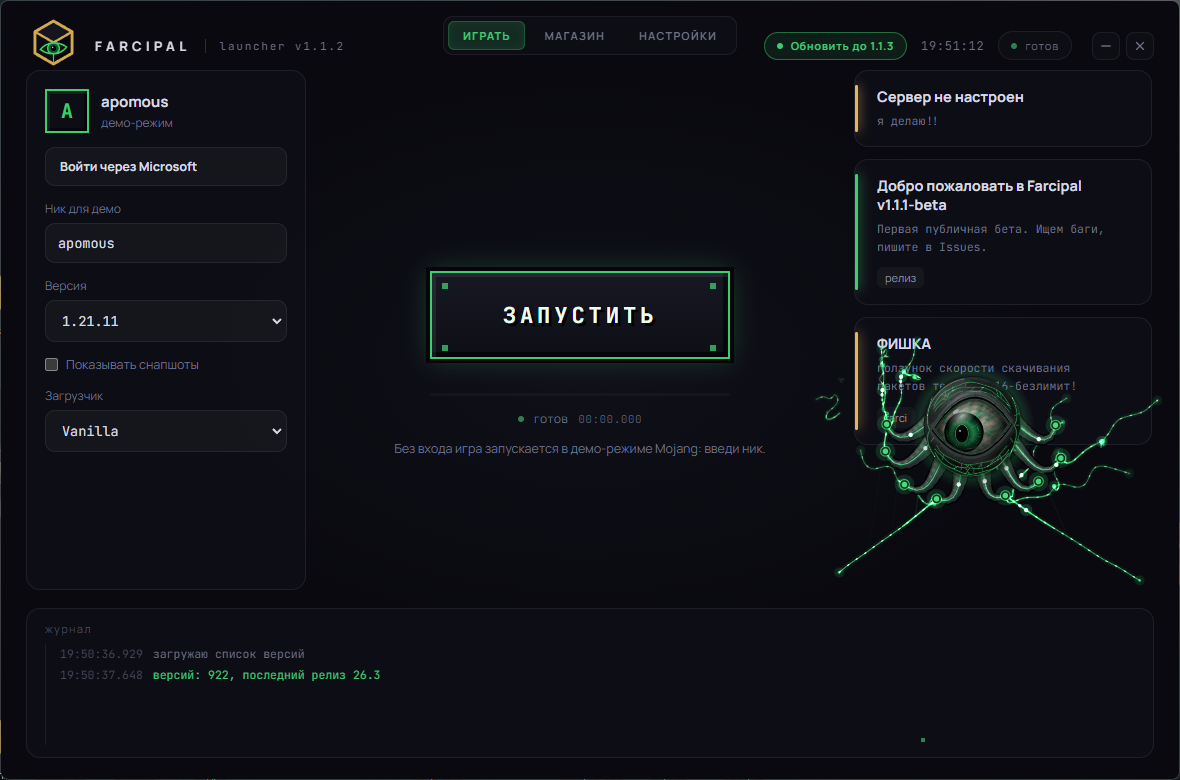
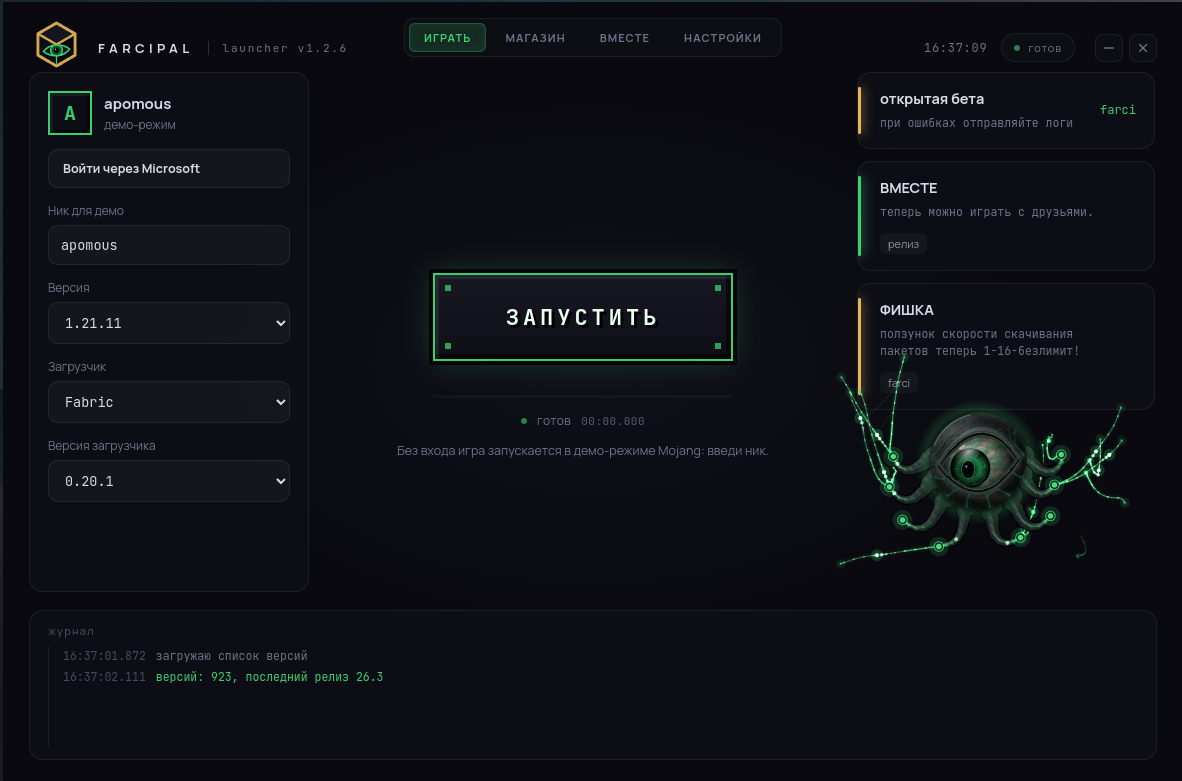
new readme

diff --git a/README.md b/README.md
@@ -1,71 +1,140 @@
 <div align="center">
 
-<img src="icon.png" width="112" alt="Farcipal">
+<img src="icon.png" width="120" alt="Farcipal">
 
-# Farcipal Launcher
+# F A R C I P A L
 
-**Лаунчер Minecraft Java, который смотрит на тебя.**
-Vanilla, Fabric и Forge. Магазин модов. Статус в Discord. Автообновления.
+### Лаунчер Minecraft Java, который смотрит на тебя
 
+Vanilla · Fabric · Forge · Магазин модов · Игра с друзьями · Автообновления
 
-[![Релиз](https://img.shields.io/github/v/release/apomous/farcipal-launcher?include_prereleases&color=3dcf6f&label=релиз)](https://github.com/apomous/farcipal-launcher/releases/latest)
-[![Скачивания](https://img.shields.io/github/downloads/apomous/farcipal-launcher/total?color=3dcf6f&label=скачиваний)](https://github.com/apomous/farcipal-launcher/releases)
-[![Лицензия](https://img.shields.io/github/license/apomous/farcipal-launcher?color=3dcf6f&label=лицензия)](LICENSE)
-![Платформа](https://img.shields.io/badge/платформа-Windows-3dcf6f)
-![Electron](https://img.shields.io/badge/Electron-33-3dcf6f)
+<br>
 
-[**Скачать**](https://github.com/apomous/farcipal-launcher/releases/latest) · [Возможности](#возможности) · [Установка](#установка) · [Сборка из исходников](#сборка-из-исходников) · [FAQ](#faq)
+[![Релиз](https://img.shields.io/github/v/release/apomous/farcipal-launcher?include_prereleases&style=for-the-badge&color=3dcf6f&labelColor=09090f&label=релиз&logo=github&logoColor=3dcf6f)](https://github.com/apomous/farcipal-launcher/releases/latest)
+[![Скачивания](https://img.shields.io/github/downloads/apomous/farcipal-launcher/total?style=for-the-badge&color=3dcf6f&labelColor=09090f&label=скачиваний)](https://github.com/apomous/farcipal-launcher/releases)
+[![Лицензия](https://img.shields.io/github/license/apomous/farcipal-launcher?style=for-the-badge&color=3dcf6f&labelColor=09090f&label=лицензия)](LICENSE)
+[![Статус](https://img.shields.io/badge/статус-открытая_бета-e8b45a?style=for-the-badge&labelColor=09090f)](https://github.com/apomous/farcipal-launcher/issues)
+
+![Windows](https://img.shields.io/badge/Windows-x64-3dcf6f?style=flat-square&logo=windows11&logoColor=3dcf6f&labelColor=09090f)
+![Linux](https://img.shields.io/badge/Linux-AppImage_·_deb-3dcf6f?style=flat-square&logo=linux&logoColor=3dcf6f&labelColor=09090f)
+![Electron](https://img.shields.io/badge/Electron-33-3dcf6f?style=flat-square&logo=electron&logoColor=3dcf6f&labelColor=09090f)
+![Node](https://img.shields.io/badge/Node-22+-3dcf6f?style=flat-square&logo=nodedotjs&logoColor=3dcf6f&labelColor=09090f)
+![Modrinth](https://img.shields.io/badge/магазин-Modrinth-3dcf6f?style=flat-square&logo=modrinth&logoColor=3dcf6f&labelColor=09090f)
+![Discord](https://img.shields.io/badge/Discord-статус_игры-3dcf6f?style=flat-square&logo=discord&logoColor=3dcf6f&labelColor=09090f)
+[![Issues](https://img.shields.io/github/issues/apomous/farcipal-launcher?style=flat-square&color=e8b45a&labelColor=09090f&label=issues)](https://github.com/apomous/farcipal-launcher/issues)
+[![Последний коммит](https://img.shields.io/github/last-commit/apomous/farcipal-launcher?style=flat-square&color=e8b45a&labelColor=09090f&label=коммит)](https://github.com/apomous/farcipal-launcher/commits)
+
+<br>
+
+[**⬇ Скачать**](https://github.com/apomous/farcipal-launcher/releases/latest) · [Возможности](#возможности) · [Установка](#установка) · [Играть вместе](#играть-вместе) · [Сборка](#сборка-из-исходников) · [FAQ](#faq)
+
+<br>
 
 <img src="docs/hero.jpg" alt="Главный экран Farcipal" width="860">
 
 </div>
 
-> **Статус: открытая бета.** Лаунчер уже играет, но мы ещё шлифуем. Нашёл баг, открой [issue](https://github.com/apomous/farcipal-launcher/issues) и приложи файл `launcher-last.log` (см. [FAQ](#faq)).
+> [!NOTE]
+> **Открытая бета.** Лаунчер уже играет, но мы ещё шлифуем. Нашёл баг? Открой [issue](https://github.com/apomous/farcipal-launcher/issues) и приложи файл `launcher-last.log` (где он лежит, см. [FAQ](#faq)).
 
 ## Возможности
 
 | | |
 | --- | --- |
 | **Vanilla, Fabric, Forge** | Выбираешь версию игры и загрузчик, остальное лаунчер ставит сам: игру, библиотеки, ассеты, профиль загрузчика. Forge с 1.12, Fabric для всех стабильных версий. |
-| **Автопочинка файлов** | Сверяет SHA1-хеши игры и ассетов. Если файл скачался битым (например, из-за обрыва VPN), лаунчер незаметно перекачает только его, не трогая остальное. |
-| **Безлимитные потоки** | Ползунок в настройках можно выкрутить до «∞». Лаунчер откроет до 64 соединений, чтобы выжать максимум скорости из твоего интернета. |
-| **Мгновенная отмена** | Кнопка «Остановить» обрывает все сетевые запросы (скачивание игры, Java, модов) и убивает процессы Java за миллисекунды. |
-| **Магазин модов и ресурспаков** | Каталог [Modrinth](https://modrinth.com) прямо в лаунчере: поиск, категории, установка в один клик. Обязательные зависимости (например, Fabric API) ставятся сами. |
-| **Отдельный профиль на каждую сборку** | Моды для 1.20.1 и 1.21 не смешиваются: у каждой пары «версия + загрузчик» своя папка `instances/<версия>-<загрузчик>`. Ванильные миры остались на месте. |
+| **Windows и Linux** | Один и тот же лаунчер на обеих системах: установщик для Windows, AppImage и deb для Linux. Java лаунчер скачивает сам на любой из них. |
+| **Играть вместе** | Создай комнату, отправь другу код и играйте по сети без белого IP и проброса портов. Код сборки синхронизирует моды у друга одним действием. |
+| **Магазин модов и ресурспаков** | Каталог [Modrinth](https://modrinth.com) внутри лаунчера: поиск, категории, сортировка, фильтр «только для твоей версии», установка в один клик. Обязательные зависимости (например, Fabric API) ставятся сами. |
+| **Отдельный профиль на каждую сборку** | Моды для 1.20.1 и 1.21 не смешиваются: у каждой пары «версия + загрузчик» своя папка `instances/<версия>-<загрузчик>`. Ванильные миры остаются на месте. |
+| **Автопочинка файлов** | Сверяет SHA1-хеши игры и ассетов. Если файл скачался битым (например, из-за обрыва VPN), лаунчер незаметно перекачает только его. |
+| **Безлимитные потоки** | Ползунок в настройках от 1 до «∞». Лаунчер откроет до 64 соединений, чтобы выжать максимум из твоего интернета. |
+| **Мгновенная отмена** | Кнопка «Остановить» обрывает все сетевые запросы (игра, Java, моды) и завершает процессы Java за миллисекунды. |
 | **Вход через Microsoft** | Обычный аккаунт Minecraft. Без входа игра запускается в демо-режиме Mojang. |
-| **Статус в Discord** | «Playing Minecraft 1.21.4 • Farcipal» с версией, загрузчиком и таймером. Включается и выключается в настройках. |
-| **Автообновления** | Лаунчер сам находит новую версию в GitHub Releases, качает в фоне и ставит при закрытии. |
-| **Живой интерфейс** | Глаз-компаньон следит за курсором, цепляется нитями за панели и кнопки, при запуске врезается в «Запустить». Можно выключить в настройках. |
-| **Мелочи** | Память под игру, автозаход на свой сервер, остановка запуска на любом этапе, журнал запуска, шрифты лежат внутри (интернет не нужен для оформления). |
+| **Статус в Discord** | «Playing Minecraft 1.21.4 · Farcipal» с версией, загрузчиком и таймером. Включается и выключается в настройках. |
+| **Автообновления** | Лаунчер сам находит новую версию в GitHub Releases, качает в фоне и ставит при закрытии. Если игра запущена, подождёт. |
+| **Живой интерфейс** | Глаз-компаньон следит за курсором, цепляется нитями за панели и кнопки, при запуске врезается в «Запустить». А на экране загрузки и на вкладке «Вместе» два ASCII-кристалла перестреливаются файрболами. Всё это можно выключить в настройках. |
+| **Мелочи** | Память под игру, автозаход на сервер, остановка на любом этапе, журнал запуска, новости в боковой панели. Шрифты лежат внутри, интернет для оформления не нужен. |
 
 <div align="center">
-<img src="docs/store.jpg" alt="Магазин модов" width="420">
-<img src="docs/settings.jpg" alt="Настройки: загрузчик и память" width="420">
+<table>
+  <tr>
+    <td><img src="docs/store.jpg" alt="Магазин модов" width="420"></td>
+    <td><img src="docs/together.jpg" alt="Играть вместе" width="420"></td>
+  </tr>
+  <tr>
+    <td align="center"><sub>Магазин: Modrinth прямо в лаунчере</sub></td>
+    <td align="center"><sub>Вместе: комнаты по коду</sub></td>
+  </tr>
+  <tr>
+    <td colspan="2" align="center"><img src="docs/settings.jpg" alt="Настройки: загрузчик и память" width="420"><br><sub>Настройки: загрузчик, память, потоки</sub></td>
+  </tr>
+</table>
 </div>
 
 ## Установка
 
-1. Открой [Releases](https://github.com/apomous/farcipal-launcher/releases/latest) и скачай `Farcipal_Setup_<версия>.exe`.
-2. Запусти. Права администратора не нужны: лаунчер ставится в `%LOCALAPPDATA%\Programs\Farcipal`.
-3. Если Windows пишет «неизвестный издатель», нажми **Подробнее → Выполнить в любом случае**. Установщик пока без цифровой подписи, подпись в процессе получения.
-4. Лаунчер **сам скачает нужную версию Java** (8, 17, 21 или 25) с серверов Mojang или Adoptium при первом запуске. Устанавливать Java вручную не нужно. 
-   *(Если у тебя уже стоит Java, лаунчер проверит её версию и использует, если она подходит).*
+Откройте [Releases](https://github.com/apomous/farcipal-launcher/releases/latest) и скачайте файл под свою систему.
 
-   | Версия игры | Java |
-   | --- | --- |
-   | 1.18 – 1.20.4 | 17+ |
-   | 1.20.5 – 1.21.x | 21+ |
-   | 26.x и новее | 25+ |
+### Windows
 
-5. Войди через Microsoft (или запускай демо), выбери версию, нажми **«Запустить»**.
+1. Скачай `Farcipal_Setup_<версия>.exe` и запусти. Права администратора не нужны: лаунчер ставится в `%LOCALAPPDATA%\Programs\Farcipal`.
+2. Если Windows пишет «неизвестный издатель», нажми **Подробнее → Выполнить в любом случае**. Установщик пока без цифровой подписи, подпись в процессе получения.
 
-Обновления приходят сами: в шапке появится кнопка «Обновить до …». Если игра запущена, лаунчер подождёт.
+### Linux
+
+**AppImage** (подходит для Fedora, Arch, openSUSE и других, обновляется сам):
+
+```bash
+chmod +x Farcipal-*.AppImage
+./Farcipal-*.AppImage
+```
+
+Если AppImage не запускается и пишет про FUSE, поставь библиотеку: на Fedora `sudo dnf install fuse-libs`, на Ubuntu `sudo apt install libfuse2`.
+
+**deb** (Debian, Ubuntu, Mint):
+
+```bash
+sudo apt install ./farcipal-launcher_<версия>_amd64.deb
+```
+
+Пакета **rpm** в релизах нет, но его можно собрать самому, см. [Сборка из исходников](#сборка-из-исходников).
+
+### Java
+
+Устанавливать Java вручную **не нужно**. При первом запуске лаунчер сам скачает нужную версию (8, 17, 21 или 25) с серверов Mojang или Adoptium. Если у тебя уже стоит подходящая Java, он использует её.
+
+| Версия игры | Java |
+| --- | --- |
+| 1.18 – 1.20.4 | 17+ |
+| 1.20.5 – 1.21.x | 21+ |
+| 26.x и новее | 25+ |
+
+Дальше войди через Microsoft (или запускай демо), выбери версию и нажми **«Запустить»**.
 
 ## Как пользоваться
 
 - **Играть.** Версия, загрузчик и его версия слева, кнопка в центре. Первый запуск каждой версии скачивает файлы, дальше всё мгновенно.
-- **Магазин.** Вкладка «Магазин», выбери «Моды» или «Ресурспаки». Установка идёт в профиль, который выбран на вкладке «Играть». Для модов нужен Fabric или Forge. Удаление в два клика. Кнопка «Папка» открывает папку профиля, туда можно класть свои файлы.
-- **Настройки.** Аккаунт, память, показ статуса в Discord, глаз-компаньон.
+- **Магазин.** Выбери «Моды» или «Ресурспаки», найди нужное и нажми «Установить». Установка идёт в профиль, выбранный на вкладке «Играть». Для модов нужен Fabric или Forge. Кнопка «Папка» открывает папку профиля, туда можно класть свои файлы.
+- **Вместе.** Игра по сети с друзьями, подробности ниже.
+- **Настройки.** Аккаунт, версия и загрузчик, память, потоки загрузки, статус в Discord, глаз-компаньон.
+
+## Играть вместе
+
+Вкладка **«Вместе»** соединяет вас напрямую, без белого IP и настройки роутера.
+
+**Хозяин мира**
+1. Запусти игру и открой свой мир для сети в Minecraft («Открыть для сети»).
+2. В лаунчере нажми **«Создать комнату»**. Лаунчер сам найдёт порт и покажет код вида `XXXX-XXXX-XXXX-XXXX`.
+3. Отправь код другу.
+
+**Друг**
+1. Введи код в поле «Подключиться» и нажми **«Войти»**.
+2. Подключись к миру из Minecraft.
+
+**Синхронизация модов.** Чтобы другу не пришлось искать моды вручную, нажми «Скопировать сборку» и отправь ему полученный код. Друг вставляет его через «Загрузить сборку» и получает ту же сборку. Версия игры и загрузчик у вас должны совпадать.
+
+> [!TIP]
+> Не отправляй код комнаты посторонним: он даёт доступ к вашему миру.
 
 ## Discord
 
@@ -81,9 +150,31 @@ Vanilla, Fabric и Forge. Магазин модов. Статус в Discord. А
 git clone https://github.com/apomous/farcipal-launcher
 cd farcipal-launcher
 pnpm install
-pnpm start          # запуск в режиме разработки
-pnpm dist           # установщик в dist/Farcipal_Setup_<версия>.exe
+pnpm start            # запуск в режиме разработки
+pnpm dist             # Windows: установщик в dist/Farcipal_Setup_<версия>.exe
+pnpm dist:linux       # Linux: AppImage, deb и rpm в dist/
 ```
+
+<details>
+<summary><b>Подробности для Linux</b></summary>
+
+<br>
+
+Для нативного модуля `lzma-native` нужны инструменты сборки. На Fedora:
+
+```bash
+sudo dnf install gcc-c++ make python3 rpm-build
+```
+
+На Ubuntu и Debian: `sudo apt install build-essential python3 rpm`.
+
+`rpm-build` (или пакет `rpm` в Ubuntu) нужен только для сборки `.rpm`. Если он не нужен, собери только AppImage и deb:
+
+```bash
+pnpm exec electron-builder --linux AppImage deb
+```
+
+</details>
 
 В `.npmrc` должно быть `node-linker=hoisted`: без него `electron-builder` с pnpm теряет модули. Если `npm install` падает с `EUNSUPPORTEDPROTOCOL workspace:`, используй pnpm: часть пакетов `@xmcl` публикуется с этим протоколом.
 
@@ -93,54 +184,108 @@ pnpm dist           # установщик в dist/Farcipal_Setup_<версия>
 git tag v0.1.1 && git push origin v0.1.1
 ```
 
-GitHub Actions соберёт установщик и положит его в **черновик** релиза. Проверь файлы и нажми Publish, только после этого пользователи получат обновление. Тег и версия в `package.json` должны совпадать.
+GitHub Actions соберёт Windows-установщик, а потом AppImage и deb для Linux и положит всё в **черновик** релиза вместе с `latest.yml` и `latest-linux.yml` (по ним работает автообновление). Проверь файлы и нажми Publish, только после этого пользователи получат обновление. Тег и версия в `package.json` должны совпадать.
 
 ## Структура проекта
 
 ```
 main.js          окно, IPC, вход через Microsoft, запуск игры
-game.js          установка и запуск: ваниль → загрузчик → зависимости → игра (@xmcl)
+game.js          установка и запуск: ваниль → загрузчик → зависимости → игра (@xmcl), автоустановка Java
+assets.js        загрузка и проверка ассетов (повторы, хеши, отмена)
+network.js       общий HTTP-клиент (undici)
 loaders.js       списки версий Fabric и Forge, профили
 modrinth.js      магазин: поиск, установка, зависимости, удаление
-discord.js       статус в Discord (локальный IPC, без зависимостей)
+discord.js       статус в Discord (локальный IPC)
 updater.js       автообновления (electron-updater)
+platform.js      различия Windows и Linux в одном месте
 preload.js       безопасный мост между окном и main.js
 config.js        сервер для автозахода, новости, discordClientId
-renderer/        интерфейс: app.js, companion.js (глаз и нити), store.js, update.js, стили
-build/           иконка и текст лицензии для установщика
+vendor/easytier  сетевое ядро для вкладки «Вместе»
+renderer/        интерфейс: app.js, store.js, update.js, стили, шрифты,
+                 companion.js (глаз и нити), ascii-bg.js и ascii-worker.js (кристаллы)
+build/           иконки и текст лицензии для установщиков
+scripts/         служебные скрипты сборки
 ```
 
 ## Данные и приватность
 
-- Игра, библиотеки, профили и моды: `%APPDATA%\.farcipal`. Журнал последнего запуска: `launcher-last.log` там же.
-- Настройки и сессия Microsoft: папка данных приложения `%APPDATA%\Farcipal`. Токен Microsoft хранится только на твоём компьютере в зашифрованном виде (через Windows DPAPI / safeStorage).
-- Файлы качаются только с серверов Mojang, Fabric, Forge и Modrinth. Моды и ресурспаки проверяются по контрольной сумме.
+| | Windows | Linux |
+| --- | --- | --- |
+| Игра, библиотеки, профили, моды | `%APPDATA%\.farcipal` | `~/.farcipal` |
+| Журнал последнего запуска | `%APPDATA%\.farcipal\launcher-last.log` | `~/.farcipal/launcher-last.log` |
+| Настройки и сессия Microsoft | `%APPDATA%\Farcipal` | `~/.config/Farcipal` |
+
+- Токен Microsoft хранится только на твоём компьютере и шифруется через `safeStorage` Electron: на Windows это DPAPI, на Linux системная связка ключей (KWallet или GNOME Keyring), если она доступна.
+- Файлы качаются только с серверов Mojang, Adoptium, Fabric, Forge и Modrinth. Игра, ассеты, моды и ресурспаки проверяются по контрольной сумме.
+- Вкладка «Вместе» подключается к публичным узлам EasyTier, чтобы вы нашли друг друга. Если прямое соединение невозможно, трафик может идти через них.
 - Лаунчер не собирает аналитику. Статус в Discord можно отключить.
 - Удаление лаунчера не трогает папку `.farcipal`: миры и моды остаются.
 
 ## FAQ
 
-**Нужен ли купленный Minecraft?** Для полной игры да: войди аккаунтом, который её купил. Без аккаунта работает демо-режим Mojang (ограничение накладывает сам клиент).
+<details>
+<summary><b>Нужен ли купленный Minecraft?</b></summary>
 
-**Игра не запускается, что присылать?** Файл `%APPDATA%\.farcipal\launcher-last.log`. В нём полный журнал последнего запуска.
+Для полной игры да: войди аккаунтом, который её купил. Без аккаунта работает демо-режим Mojang (ограничение накладывает сам клиент).
 
-**Мод не работает или игра падает.** Проверь, что версия игры и загрузчик в профиле совпадают с модом, а зависимости на месте (магазин ставит обязательные сам). Моды из магазина лежат в `instances/<версия>-<загрузчик>/mods`.
+</details>
 
-**Я переключился с ванили на Fabric, где мои миры?** У Forge и Fabric свой профиль со своими мирами и настройками. Ванильные миры лежат в `%APPDATA%\.farcipal\saves` и никуда не делись.
+<details>
+<summary><b>Игра не запускается, что присылать?</b></summary>
 
-**Будут ли Linux и macOS?** Основа на Electron кроссплатформенная, но сборки и проверки пока только под Windows.
+Файл `launcher-last.log` (пути в таблице [Данные и приватность](#данные-и-приватность)). В нём полный журнал последнего запуска.
+
+</details>
+
+<details>
+<summary><b>Мод не работает или игра падает</b></summary>
+
+Проверь, что версия игры и загрузчик в профиле совпадают с модом, а зависимости на месте (магазин ставит обязательные сам). Моды из магазина лежат в `instances/<версия>-<загрузчик>/mods`.
+
+</details>
+
+<details>
+<summary><b>Я переключился с ванили на Fabric, где мои миры?</b></summary>
+
+У Forge и Fabric свой профиль со своими мирами и настройками. Ванильные миры лежат в папке `saves` внутри `.farcipal` и никуда не делись.
+
+</details>
+
+<details>
+<summary><b>Какой объём памяти ставить?</b></summary>
+
+Для ванили и лёгких сборок хватает 4–6 ГБ. Для больших сборок на 100+ модов 8 ГБ. Больше ставить не стоит: на ноутбуках и слабых ПК это замедляет игру, а не ускоряет.
+
+</details>
+
+<details>
+<summary><b>AppImage не запускается на Linux</b></summary>
+
+Проверь, что у файла есть право на запуск (`chmod +x`) и что установлена библиотека FUSE (`fuse-libs` на Fedora, `libfuse2` на Ubuntu). Если не помогло, запусти из терминала и пришли вывод в issue.
+
+</details>
+
+<details>
+<summary><b>Есть ли версия для macOS?</b></summary>
+
+Пока нет. Основа на Electron кроссплатформенная, но сборки и проверки только под Windows и Linux.
+
+</details>
 
 ## Планы
 
 - [x] Автоустановка Java нужной версии
 - [x] Шифрование токена Microsoft
-- [x] автопочинка битых файлов
-- [x] ползунок кол-ва потоков загрузки 1-16-∞
-- [x] мгновенная отмена (кнопка остановить обрывает ваще все)
+- [x] Автопочинка битых файлов
+- [x] Ползунок потоков загрузки 1–16–∞
+- [x] Мгновенная отмена загрузки
+- [x] Игра по сети через вкладку «Вместе»
+- [x] Сборки для Linux (AppImage, deb)
 - [ ] Обновление и отключение модов, не только установка
 - [ ] NeoForge и Quilt
-- [ ] Цифровая подпись установщика
 - [ ] Шейдеры в магазине
+- [ ] Цифровая подпись установщика
+- [ ] Пакет rpm в релизах
 
 ## Юридическое
 
@@ -148,4 +293,9 @@ Farcipal Launcher: неофициальный сторонний лаунчер.
 
 ## Лицензия
 
-[MIT](LICENSE). Использованы: [Electron](https://www.electronjs.org), [@xmcl/core и @xmcl/installer](https://github.com/Voxelum/minecraft-launcher-core-node), [msmc](https://github.com/Hanro50/MSMC), [Modrinth API](https://docs.modrinth.com).
+[MIT](LICENSE). Использованы: [Electron](https://www.electronjs.org), [@xmcl/core и @xmcl/installer](https://github.com/Voxelum/minecraft-launcher-core-node), [msmc](https://github.com/Hanro50/MSMC), [undici](https://github.com/nodejs/undici), [EasyTier](https://github.com/EasyTier/EasyTier), [Modrinth API](https://docs.modrinth.com).
+
+<div align="center">
+<br>
+<sub>Сделано с глазом, который смотрит на тебя.</sub>
+</div>
